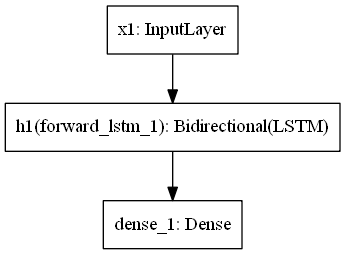
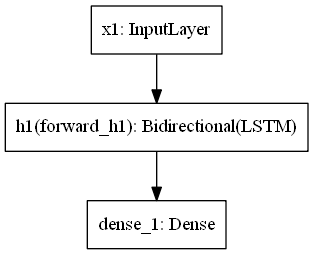
add model layer name 'h1' for lstm

diff --git a/model.py b/model.py
@@ -48,7 +48,8 @@ class FinancialNewsAnalysisModel(object):
         nb_time_step = self.size_of_input_timesteps
         news_input = Input(shape=(nb_time_step, dim_data), name='x1')
         lstm = LSTM(output_dim=nb_hidden_units, dropout_U=dropout, dropout_W=dropout,
-                    W_regularizer=l2(l2_norm_alpha), b_regularizer=l2(l2_norm_alpha), activation='tanh')
+                    W_regularizer=l2(l2_norm_alpha), b_regularizer=l2(l2_norm_alpha),
+                    activation='tanh', name='h1')
         bi_lstm = Bidirectional(lstm, input_shape=(nb_time_step, dim_data), merge_mode='concat', name='h1')
         all_news_rep = bi_lstm(news_input)
         news_predictions = Dense(1, activation='linear')(all_news_rep)
@@ -139,6 +140,6 @@ if __name__ == '__main__':
 
     X_com = np.vstack((X, X_val))
     y_com = np.vstack((y, y_val))
-    fa_model.fit_model(X_com, y_com, epoch=100)
+    # fa_model.fit_model(X_com, y_com, epoch=100)
     fa_model.save()
     fa_model.model_eval(X_val, y_val)
